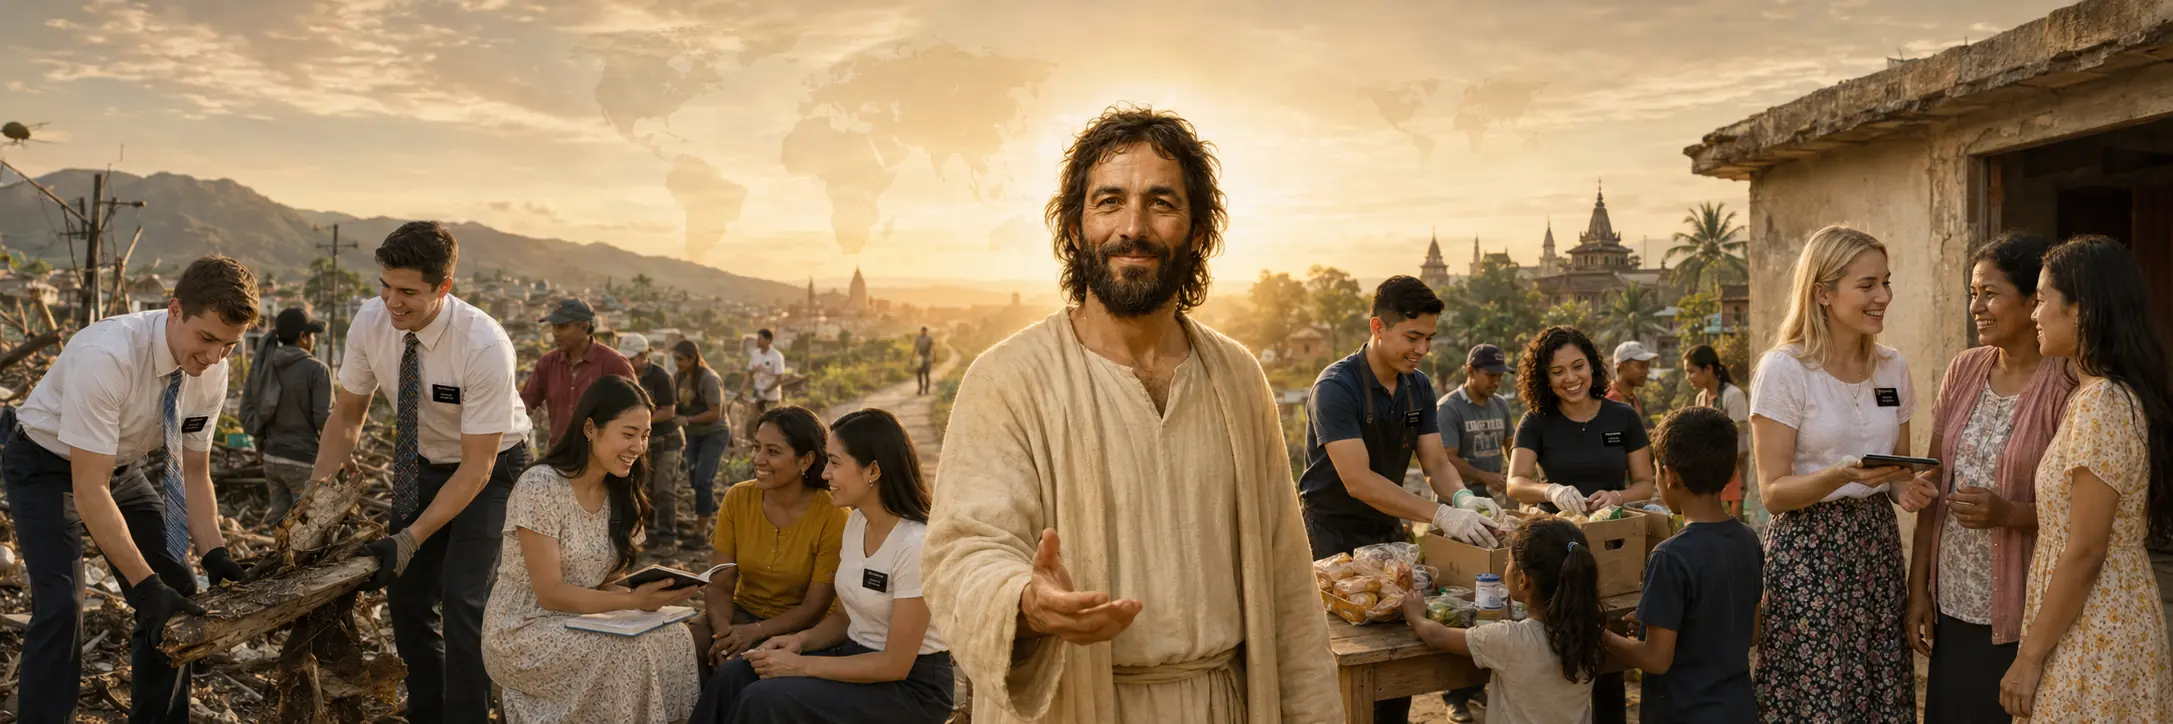
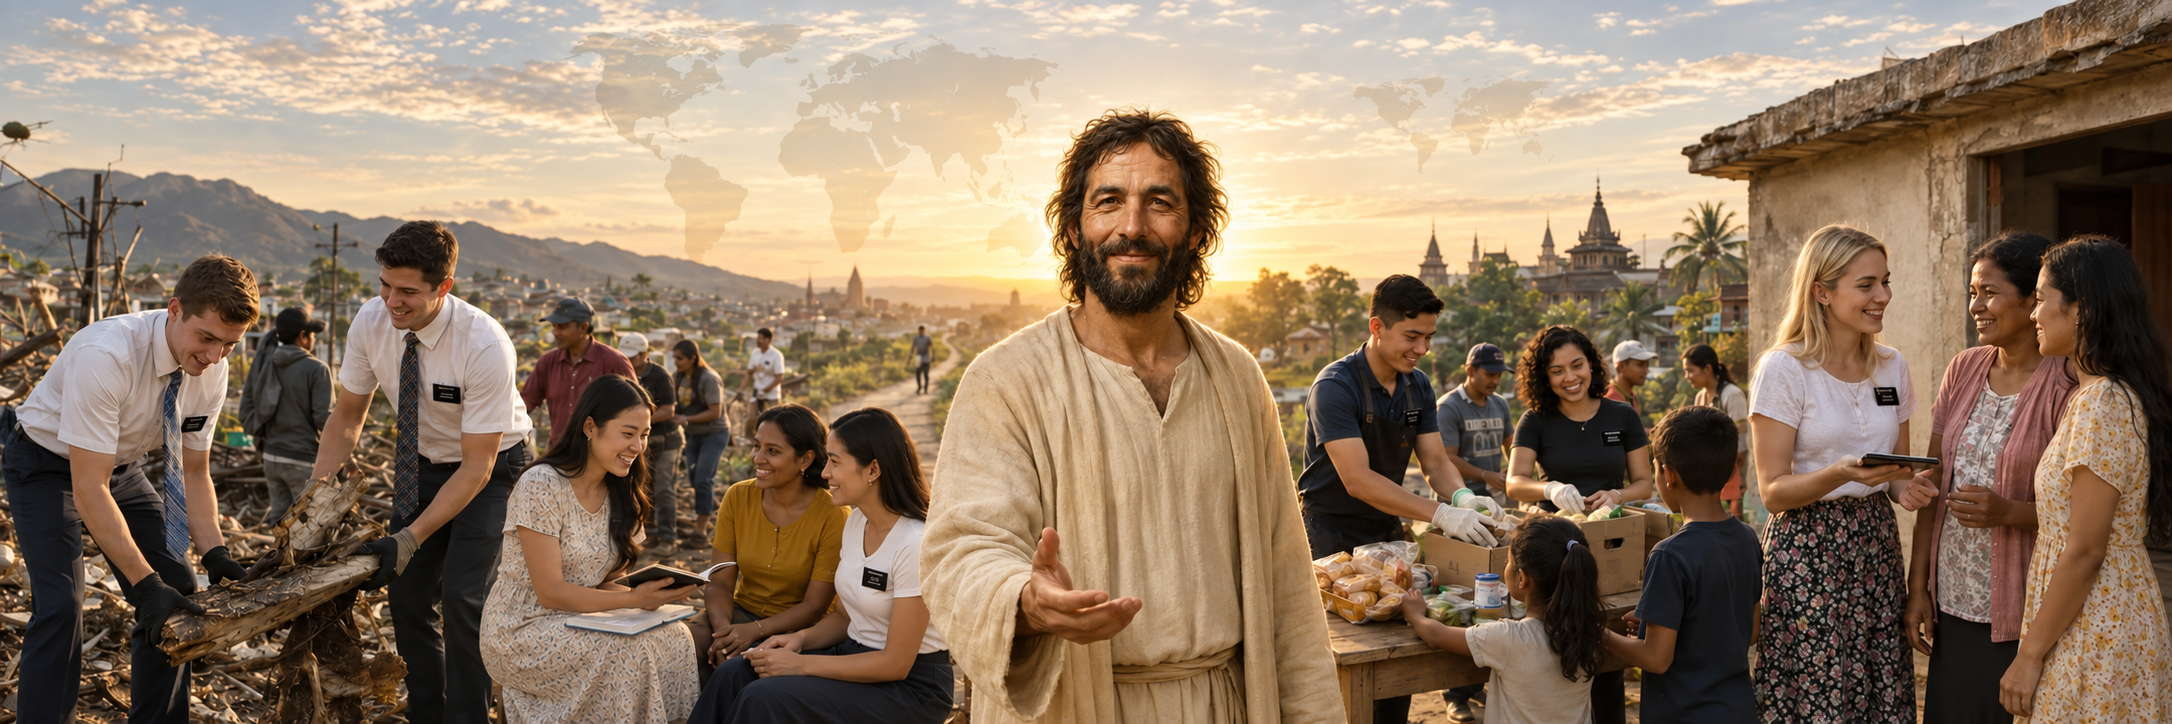
Restore shared Mission opening and publish approved photographic hero

diff --git a/missionary.html b/missionary.html
@@ -12,14 +12,14 @@
     <meta property="og:title" content="Missionary Work | Come Unto Christ | focusChrist">
     <meta property="og:description" content="Explore Christ-centered missionary work, meet with missionaries, and learn about opportunities to serve.">
     <meta property="og:url" content="https://focuschrist.com/missionary.html">
-    <meta property="og:image" content="https://focuschrist.com/assets/heroes/missionary.webp">
+    <meta property="og:image" content="https://focuschrist.com/assets/heroes/missionary.webp?v=20260906-approved">
     <meta name="twitter:card" content="summary_large_image">
     <meta name="twitter:title" content="Missionary Work | Come Unto Christ | focusChrist">
     <meta name="twitter:description" content="Explore Christ-centered missionary work, meet with missionaries, and learn about opportunities to serve.">
-    <meta name="twitter:image" content="https://focuschrist.com/assets/heroes/missionary.webp">
+    <meta name="twitter:image" content="https://focuschrist.com/assets/heroes/missionary.webp?v=20260906-approved">
     <link rel="stylesheet" href="site-header.css">
     <link rel="stylesheet" href="site-system.css?v=20260904-1">
-    <link rel="stylesheet" href="missionary.css?v=20260906-mission-opening">
+    <link rel="stylesheet" href="missionary.css?v=20260906-mission-hero-approved">
     <link rel="stylesheet" href="full-image-viewer.css?v=20260905-viewport">
     <script src="site-common.js?v=20260903-16" defer></script>
     <script src="missionary-details.js?v=20260905-viewport" defer></script>
@@ -65,7 +65,7 @@
     </nav>
 
     <div class="fc-visual-hero fc-visual-hero--missionary" aria-label="Jesus Christ among missionaries teaching, serving, and helping communities around the world">
-        <img src="assets/heroes/missionary.webp" alt="Jesus Christ surrounded by Latter-day Saint missionaries teaching families, helping with cleanup, and serving a community beneath a subtle world map" loading="eager" decoding="async" fetchpriority="high">
+        <img src="assets/heroes/missionary.webp?v=20260906-approved" alt="Jesus Christ surrounded by Latter-day Saint missionaries teaching families, helping with cleanup, and serving a community beneath a subtle world map" loading="eager" decoding="async" fetchpriority="high">
     </div>
 
     <main>

diff --git a/missionary.css b/missionary.css
@@ -1,7 +1,7 @@
 /* Missionary page visual direction: paths of light across the Harvest Sky. */
 
 .fc-visual-hero--missionary > img {
-    object-position: center 20%;
+    object-position: center top;
 }
 
 .fc-visual-hero--missionary::after {
@@ -677,34 +677,5 @@
 
     .fc-missionary-detail-actions .fc-button {
         width: 100%;
-    }
-}
-
-/* Keep the desktop opening within the usable browser height, including both
-   actions. Natural content growth remains available for enlarged text. */
-@media (min-width: 901px) {
-    .fc-missionary-page {
-        --fc-opening-hero-height: clamp(240px, min(27vw, 44dvh), 440px);
-    }
-
-    .fc-missionary-page .fc-page-intro {
-        padding-block: 20px 24px;
-    }
-
-    .fc-missionary-page .fc-page-intro .fc-display {
-        font-size: clamp(2.5rem, 5.5dvh, 3.5rem);
-    }
-
-    .fc-missionary-page .fc-page-intro-copy {
-        margin-top: 12px;
-        line-height: 1.6;
-    }
-
-    .fc-missionary-page .fc-page-intro-scripture {
-        margin-top: 12px;
-    }
-
-    .fc-missionary-page .fc-page-intro .fc-actions {
-        margin-top: 16px;
     }
 }

diff --git a/tools/artwork_details_qa.py b/tools/artwork_details_qa.py
@@ -91,7 +91,7 @@ def main() -> int:
     )
     if len(mission_image_triggers) != 7:
         errors.append(f"missionary.html: expected 7 image detail triggers, found {len(mission_image_triggers)}")
-    if "missionary.css?v=20260906-mission-opening" not in missionary:
+    if "missionary.css?v=20260906-mission-hero-approved" not in missionary:
         errors.append("missionary.html: centered close-control stylesheet version missing")
     mission_records = re.findall(r'data-missionary-detail-content="([^"]+)"', missionary)
     if len(mission_records) != 9 or len(set(mission_records)) != 9:

diff --git a/docs/mission-hero-approved-handoff.md b/docs/mission-hero-approved-handoff.md
@@ -1,0 +1,11 @@
+# Approved Mission hero and shared opening layout
+
+Wyatt approved exec-dafafa9f-89f8-420f-8df0-9be8297692a4.png on 2026-09-06 for the Mission hero. Native dimensions: 2172 x 724. Source SHA256: a1aa627b9a800cae2ad4cc245d6262734f3198b03fec585838a6039aa23363bf. The published candidate assets/heroes/missionary.webp decodes to exactly the same RGB pixels; no upscaling or lossy recompression was used.
+
+The owner specifically asked for parity with other pages. The Mission-only desktop hero-height, intro-padding, heading-size, paragraph-spacing and button-spacing overrides are removed. Mission inherits the shared opening system, including a desktop hero height of clamp(350px, 27vw, 440px) and the existing 300px mobile rule. Natural content flow allows the introduction to grow when required; buttons are not clipped to force a single-screen fit. Desktop image positioning uses center top to protect Christ's hair below the fixed navigation. Existing mobile center 34% positioning and ultrawide edge blending are retained.
+
+Only this approved hero, its social-preview cache version, Mission CSS cache version and corresponding existing QA version marker change. Supporting artworks, viewer behavior, content and other page styles remain intact. The prior mission-artwork-opening-handoff.md is historical and its Mission-only desktop sizing is superseded here.
+
+Validation: exact decoded image comparison passed. Existing production-hardening, artwork-detail and unified-experience QA passed. Independent reviewer and release/live receipts are required before production completion; final evidence is recorded in Focus Current State and Run Log.
+
+Continuation: owner-directed Mission content enrichment, then Watch separately. No broad production-health or indexing claim is implied by this hero release. Direct display was authorized for this particular image review, not as a permanent replacement of the private-review rule.
